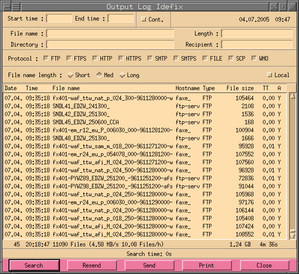
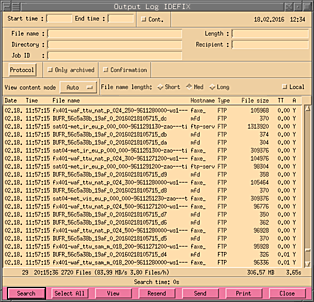
Updated documentation

diff --git a/doc/html-en/show_olog.html b/doc/html-en/show_olog.html
@@ -71,16 +71,41 @@ to reduce the search time by filling in some of the following values:
 </tr>
 <tr>
    <td>&nbsp;<b>8</b>&nbsp;</td>
-   <td>Here it is possible to select by the protocol they where transmitted.</td>
+   <td>The Job Idendification Number to search for. This is a hexadecimal
+       number which can be found at the end of each line in TRANSFER_LOG.
+       This number may also be entered with a leading &#35;. Multible
+       numbers can be entered by seperating them with a comma.</td>
 </tr>
 <tr>
    <td>&nbsp;<b>9</b>&nbsp;</td>
+   <td>Here it is possible to select by the protocol they where transmitted.</td>
+</tr>
+<tr>
+   <td>&nbsp;<b>10</b>&nbsp;</td>
+   <td>When selected, only archived data will be shown.</td>
+</tr>
+<tr>
+   <td>&nbsp;<b>11</b>&nbsp;</td>
+   <td>When selected, only confirmed data will be shown. Confirmed
+       is where the protocol does support this. Not yet implemented.</td>
+</tr>
+<tr>
+   <td>&nbsp;<b>12</b>&nbsp;</td>
+   <td>How the content of a file in the archive is viewed. When set to
+       Auto, then the viewer specified by the pattern for the
+       parameter <a href="afd_config.html#view_data_no_filter_prog">
+       VIEW_DATA_NO_FILTER_PROG</a> will be selected. A special viewer
+       can also be configured via the  <a href="afd_config.html#view_data_prog">
+       VIEW_DATA_PROG</a> parameter in $AFD_WORK_DIR/etc/AFD_CONFIG.</td>
+</tr>
+<tr>
+   <td>&nbsp;<b>13</b>&nbsp;</td>
    <td>These toggle buttons allow the user to toggle between different length
        of the file name in the list box. The short one is useful when
        printing on A4 paper.</td>
 </tr>
 <tr>
-   <td>&nbsp;<b>10</b>&nbsp;</td>
+   <td>&nbsp;<b>14</b>&nbsp;</td>
    <td>File names displayed will be those before being send ie. local.
        When pressed they will be shown how they where stored on the
        remote side.</td>
@@ -284,9 +309,9 @@ which have the following meaning:
 <table width="100%">
 <tr>
    <td width="90%"><small><address>
-   Copyright &copy; 1997 - 2015 by H.Kiehl<br>
+   Copyright &copy; 1997 - 2016 by H.Kiehl<br>
    <a href="mailto:Holger.Kiehl@dwd.de?subject=AFD Homepage">Holger.Kiehl@dwd.de</a><br>
-   Last updated: 26.09.2015
+   Last updated: 19.02.2016
    </address></small></td>
    <td nowrap><small><img align=middle src="../images/reddot.gif" alt="[red dot]"><a href="contents.html">Index</a></small></td>
    <td nowrap><small><img align=middle src="../images/reddot.gif" alt="[red dot]"><a href="index.html">Home</a></small></td>

diff --git a/doc/html-en/dir_config.html b/doc/html-en/dir_config.html
@@ -2003,7 +2003,6 @@ section. Valid options can be taken from the following table:
        exec option. The following additional parameters only used for
        pexec are as follows:<br>
        <pre>
-       </pre>
           -r                  Execute the command in the target directory.
                               When this parameter is not set the command
                               is executed in an internal AFD directory.
@@ -2013,6 +2012,7 @@ section. Valid options can be taken from the following table:
                               file has been renamed, so if another process
                               is using that file, both AFD and that process
                               work on that file at the same time.
+       </pre>
        </td>
    <td><pre>&nbsp;</pre></td>
    <td align=center>X</td>
@@ -2143,7 +2143,7 @@ section. Valid options can be taken from the following table:
        </table>
        When no archive option is set, the default (0 = no archiving
        (DEFAULT_ARCHIVE_TIME)) is set. With <a href="tools.html#afdcfg">
-       afdcfg</a> the system administrator can disable archiving
+       afdcfg -A</a> the system administrator can disable archiving
        completely for all jobs.</td>
    <td><pre>&nbsp;</pre></td>
    <td align=center>X</td>
@@ -2752,9 +2752,9 @@ section. Valid options can be taken from the following table:
 <table width="100%">
 <tr>
    <td width="90%"><address><small>
-   Copyright &copy; 1997 - 2015 by H.Kiehl<br>
+   Copyright &copy; 1997 - 2016 by H.Kiehl<br>
    <a href="mailto:Holger.Kiehl@dwd.de?subject=AFD Homepage">Holger.Kiehl@dwd.de</a><br>
-   Last updated: 27.11.2015
+   Last updated: 18.02.2016
    </small></address></td>
    <td nowrap><small><img align=middle src="../images/reddot.gif" alt="[red dot]"><a href="contents.html">Index</a></small></td>
    <td nowrap><small><img align=middle src="../images/reddot.gif" alt="[red dot]"><a href="index.html">Home</a></small></td>
